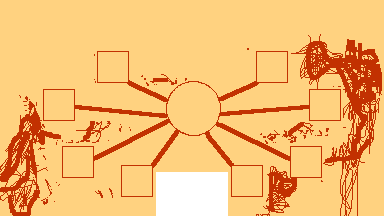
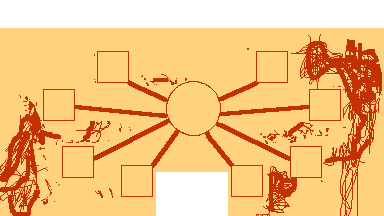
fixed stuff  also added customers

Changed region(s): [[0.0, 0.0, 1.0, 0.1389]]

diff --git a/GarbagemanDemo/core/src/com/garbageman/game/Garbageman.java b/GarbagemanDemo/core/src/com/garbageman/game/Garbageman.java
@@ -66,6 +66,8 @@ public class Garbageman extends Game {
 	public Backpack backpack = new Backpack();
 	public UI ui = new UI();
 
+    public boolean SAFE_MODE = true;
+
 
 	//colors for rarity:
 	public Color COMMON = Color.WHITE;
@@ -112,6 +114,32 @@ public class Garbageman extends Game {
 			ToiletPaper.class,
 			DeadRat.class,
 	};
+
+    public Class[] safeGarbageItems = {
+            AppleCore.class,
+            BagOfSugar.class,
+            BananaPeel.class,
+            Bean.class,
+            Bread.class,
+            CrowWithOddEyeInfection.class,
+            DirtyKitchenSponge.class,
+            HandfulOfAnts.class,
+            //HomelessBeardShavings.class,
+            Ketchup.class,
+            Leaf.class,
+            Lettuce.class,
+            McdFries.class,
+            McdHamburger.class,
+            //MysteryEyeball.class,
+            OldNewspaper.class,
+            Pork.class,
+            RabbitFoot.class,
+            Salad.class,
+            Smarties.class,
+            Strawberry.class,
+            ToiletPaper.class,
+            //DeadRat.class,
+    };
 
 	public Class[] foodItems = {
 			Burrito.class,
@@ -163,6 +191,10 @@ public class Garbageman extends Game {
         //this.create();
 		batch = new SpriteBatch();
 		this.setScreen(new MainMenuScreen(this));
+
+        if (SAFE_MODE){
+            this.garbageItems = this.safeGarbageItems;
+        }
 		/*for (int i = 0; i <= 6; i++) {
 			Trash let = new MysteryEyeball();
 			let.setNast(new Random().nextInt(100));

diff --git a/GarbagemanDemo/core/src/com/garbageman/game/screens/RestaurantMain.java b/GarbagemanDemo/core/src/com/garbageman/game/screens/RestaurantMain.java
@@ -2,7 +2,10 @@ package com.garbageman.game.screens;
 
 import com.badlogic.gdx.Gdx;
 import com.badlogic.gdx.Screen;
+import com.badlogic.gdx.graphics.Color;
+import com.badlogic.gdx.scenes.scene2d.Actor;
 import com.badlogic.gdx.scenes.scene2d.Stage;
+import com.badlogic.gdx.scenes.scene2d.ui.Image;
 import com.garbageman.game.Garbageman;
 
 /**
@@ -13,9 +16,14 @@ public class RestaurantMain implements Screen {
     Garbageman game;
     String screenName = "RestaurantMain";
     Stage stage = new Stage();
+    Image background;
 
     public RestaurantMain(Garbageman game){
         this.game = game;
+    }
+
+    private void makeCustomer(){
+
     }
 
     @Override
@@ -24,6 +32,10 @@ public class RestaurantMain implements Screen {
         game.ui.init(game, stage, screenName);
         game.ui.makeUI();
         Gdx.input.setInputProcessor(stage);
+
+        background = (Image)game.ui.makeRect(0, 0, (int)stage.getWidth(), (int)stage.getHeight()-game.ui.topbarHeight, Color.WHITE, true);
+        stage.addActor(background);
+        background.toBack();
     }
 
     @Override

diff --git a/GarbagemanDemo/core/src/com/garbageman/game/customers/Customer.java b/GarbagemanDemo/core/src/com/garbageman/game/customers/Customer.java
@@ -1,0 +1,21 @@
+package com.garbageman.game.customers;
+
+import com.badlogic.gdx.scenes.scene2d.ui.Image;
+
+import java.util.ArrayList;
+
+/**
+ * Created by dpearson6225 on 3/6/2018.
+ */
+
+public class Customer extends Image {
+
+    //customer pickiness: 100 is high, 1 is low, the more picky a customer is, the more they care about their food and the more their review matters
+    public int picky = 1;
+    public static int PICKY_MAX = 100;
+    public static int PICKY_MIN = 1;
+
+    public String fileType = ".png";
+    public String fileLocation = "assets/Garbage/";
+    public String fileName = "error";
+}
